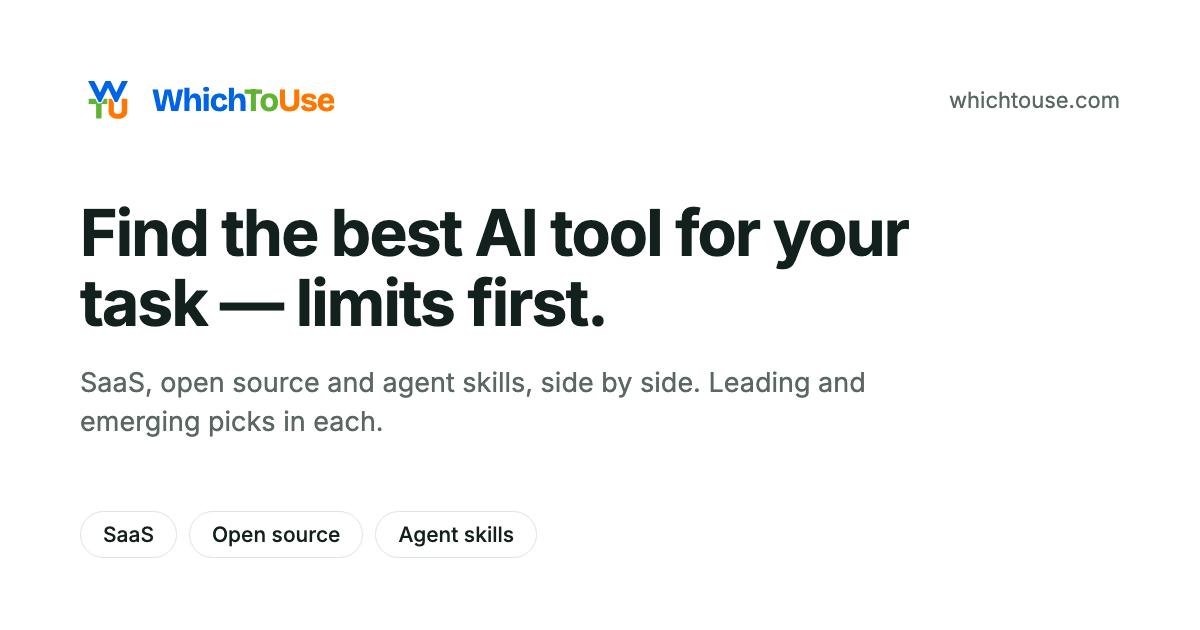
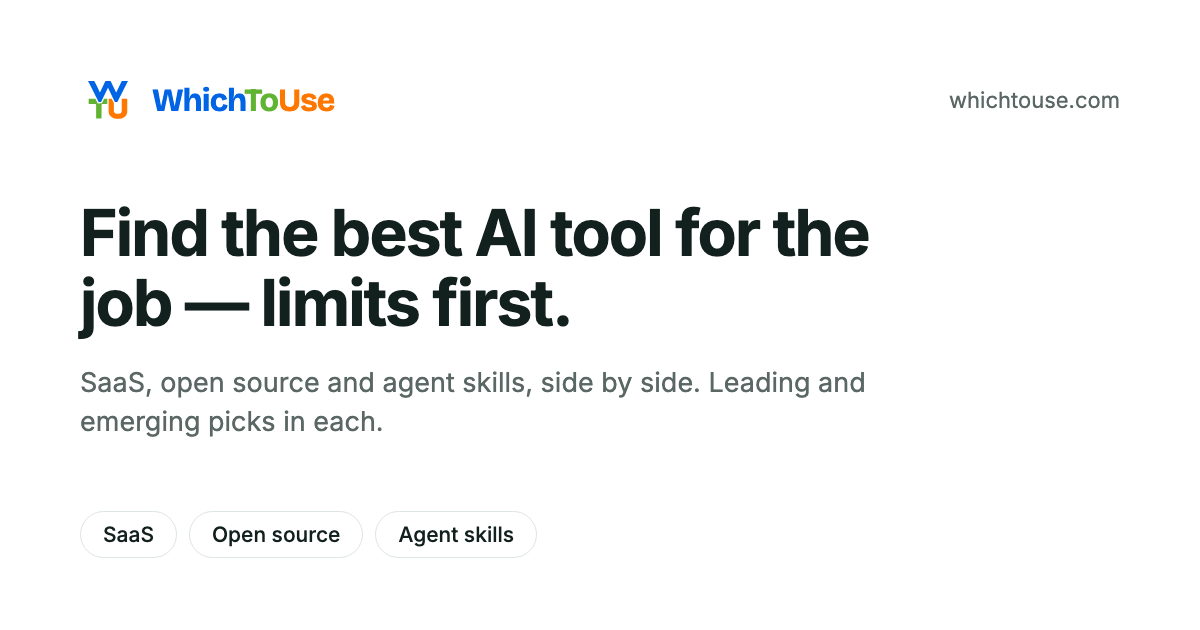
feat(copy): "the job" for the reader, "area" for the container
The container word was "task" and it did not survive being checked
against the list. Half of the 25 span several verbs — Voice & Audio is
TTS *and* music *and* listening; Bookkeeping & Finance is ledgers *and*
spend management *and* CFO services; PDF & Documents is read *and* edit
*and* convert — so any single-verb name makes the label lie about its own
list. That is the same failure this product's central rule forbids,
moved from the content into the navigation.

An earlier draft went the other way and tried to reword the labels into
tasks. Checked against what each category actually contains, seven of the
eight rewrites silently narrowed it: "Keeping the books" drops Ramp,
which is spend management, not bookkeeping. The labels are broad subject
nouns because the areas are broad. They stay.

So the word splits by whose side it is on:

  the job   what the reader is trying to get done — prose only. "The
            right tool for the job" is already an English proverb, which
            is why the headline now reads as a quotation rather than an
            invention. It is also the phrase this repo's first README
            used before the rewrite dropped it.
  area      one of the 25, wherever it has to be named.

"Task" additionally reads as a to-do item, which undersells a decision
you live with for months.

The navigation stops naming the container at all: the rail is headed
"What are you working on?", which is true without needing a taxonomy noun
[…]

Changed region(s): [[0.2158, 0.4222, 0.5242, 0.5429], [0.6475, 0.3317, 0.7708, 0.4222], [0.0617, 0.4222, 0.185, 0.5429]]

diff --git a/app/src/components/home-page.tsx b/app/src/components/home-page.tsx
@@ -22,11 +22,20 @@ import { ActionLink, itemHref, RankMarker } from './bits'
 // it has, and show what the internet is excited about today — clearly
 // separated, because the last one is aggregation and the first two are not.
 //
-// Vocabulary is fixed across every view and must not drift: the 25 are *tasks*;
-// the three are *SaaS*, *open source* and *skills*, collectively *routes*;
-// within a route the two standings are *leading* and *emerging*. Earlier drafts
-// also called these "jobs" and "forms", which read as four concepts instead of
-// two.
+// Vocabulary is fixed across every view and must not drift.
+//
+//   the job    what the reader is trying to get done. Second person, prose
+//              only — "the best AI tool for the job". Never a label.
+//   area       one of the 25. They are broad on purpose: half of them span
+//              several verbs (Voice & Audio is TTS *and* music *and*
+//              listening), so naming them after one action would make the
+//              label lie about its own list.
+//   route      SaaS, open source, skills — the three per area.
+//   standing   leading, emerging — the two within a route.
+//
+// "task" was the word here until it was checked against the list and did not
+// fit: an area covers many tasks, so the container could not be one. It also
+// carried a to-do-list connotation the product does not want.
 
 const styles = stylex.create({
   heroText: {
@@ -75,7 +84,7 @@ export function HomePage({
             * scale, not to a prop here. */}
           <VStack gap={3}>
             <Heading level={1} textWrap="balance">
-              Find the best AI tool for your task — limits first.
+              Find the best AI tool for the job — limits first.
             </Heading>
             <Text type="large" color="secondary" textWrap="pretty">
               SaaS, open source and agent skills, side by side. Leading and
@@ -83,12 +92,12 @@ export function HomePage({
             </Text>
           </VStack>
           <HStack gap={6} wrap="wrap">
-            <Stat value={String(ready.length)} label="tasks" />
-            <Stat value="3" label="routes per task" />
+            <Stat value={String(ready.length)} label="areas of work" />
+            <Stat value="3" label="routes in each" />
             <Stat value="Limits" label="checked by hand" />
           </HStack>
           <HStack gap={2} wrap="wrap">
-            <ActionLink href="/c/coding">Browse all tasks</ActionLink>
+            <ActionLink href="#areas">See all 25 areas</ActionLink>
           </HStack>
         </VStack>
         </Card>
@@ -97,12 +106,12 @@ export function HomePage({
       <Section variant="transparent" padding={0} paddingBlock={6}>
         <VStack gap={4}>
           <SectionHeading
-            title="Start with a task"
-            description="The tasks with the most depth behind them right now."
+            title="Where to start"
+            description="The areas with the most depth behind them right now."
           />
-          {/* 220, not 260: with the task rail inside the container the content
+          {/* 220, not 260: with the area rail inside the container the content
               column is ~990px at 1440, where a 260 minimum fits only three of
-              the four featured tasks and strands the fourth alone on a second
+              the four featured areas and strands the fourth alone on a second
               row. */}
           <Grid columns={{ minWidth: 220, max: 4 }} gap={4}>
             {featured.map(({ category, items }) => (
@@ -159,9 +168,9 @@ export function HomePage({
       <Section variant="transparent" padding={0} paddingBlock={6}>
         <VStack gap={4}>
           <SectionHeading
-            id="tasks"
-            title="Every task"
-            description="Twenty-five tasks people actually search for."
+            id="areas"
+            title="All 25 areas"
+            description="Pick the one your job falls under."
           />
           <HStack gap={2} wrap="wrap">
             {categories.map((category) => (

diff --git a/app/src/components/app-frame.tsx b/app/src/components/app-frame.tsx
@@ -183,7 +183,7 @@ export function AppFrame({
           }
           startContent={
             <>
-              <TopNavItem label="Tasks" href="/#tasks" isSelected={false} />
+              <TopNavItem label="Browse" href="/#areas" isSelected={false} />
               <div {...stylex.props(styles.wide)}>
                 <Button
                   variant="ghost"
@@ -200,7 +200,7 @@ export function AppFrame({
                   variant="ghost"
                   icon={<Icon icon="search" size="sm" />}
                   isIconOnly
-                  label="Search tasks and tools"
+                  label="Search areas and tools"
                   onClick={() => setSearchOpen(true)}
                 />
               </div>
@@ -210,11 +210,11 @@ export function AppFrame({
       }>
       <div {...stylex.props(styles.page)}>
         <div {...stylex.props(styles.columns)}>
-          <nav aria-label="Tasks" {...stylex.props(styles.nav)}>
+          <nav aria-label="Areas of work" {...stylex.props(styles.nav)}>
             <div {...stylex.props(styles.navHeading)}>
-              <Text type="label">Tasks</Text>
+              <Text type="label">What are you working on?</Text>
               <Text type="supporting" display="block">
-                {categories.length} tasks, three routes each
+                {categories.length} areas, three routes each
               </Text>
             </div>
             <div {...stylex.props(styles.navScroll)}>

diff --git a/app/src/lib/seo.ts b/app/src/lib/seo.ts
@@ -12,13 +12,12 @@ export const SITE_NAME = 'WhichToUse'
 export const SITE_URL = 'https://whichtouse.com'
 export const OG_IMAGE = `${SITE_URL}/og.png`
 export const DEFAULT_TITLE =
-  'WhichToUse — find the best AI tool for your task, limits first'
-// This is the search-result snippet, so it has to say the same thing the home
-// page says. It still spoke of "apps and open-source skills" — the vocabulary
-// the rest of the site dropped — and led with how we work rather than with what
-// the reader gets.
+  'WhichToUse — find the best AI tool for the job, limits first'
+// The search-result snippet, so it has to say what the home page says, in the
+// same words. See the vocabulary block at the top of components/home-page.tsx —
+// "the job" is the reader's side, "area" is one of the 25.
 export const DEFAULT_DESCRIPTION =
-  'SaaS, open source and agent skills for 25 real tasks, side by side. Leading and emerging picks in each, with what every tool is bad at written down and checked by hand.'
+  'SaaS, open source and agent skills across 25 areas of work, side by side. Leading and emerging picks in each, with what every tool is bad at written down and checked by hand.'
 
 type MetaTag = Record<string, string>
 

diff --git a/app/src/components/search-palette.tsx b/app/src/components/search-palette.tsx
@@ -25,8 +25,8 @@ function toEntry(entry: CatalogSearchEntry): Entry {
     id: href,
     label: entry.label,
     auxiliaryData: {
-      group: entry.kind === 'category' ? 'Tasks' : 'Tools',
-      context: entry.kind === 'category' ? 'Task' : entry.categoryName,
+      group: entry.kind === 'category' ? 'Areas' : 'Tools',
+      context: entry.kind === 'category' ? 'Area' : entry.categoryName,
     },
   }
 }
@@ -48,8 +48,8 @@ export function SearchPalette({
       isOpen={isOpen}
       onOpenChange={onOpenChange}
       searchSource={source}
-      label="Search tasks and tools"
-      emptyBootstrapText="Search a task, or a tool by name."
+      label="Search areas and tools"
+      emptyBootstrapText="Search an area, or a tool by name."
       emptySearchText="Nothing in the catalog matches that."
       onValueChange={(href) => {
         onOpenChange(false)

diff --git a/app/src/routes/_app/c.$slug.tsx b/app/src/routes/_app/c.$slug.tsx
@@ -16,7 +16,7 @@ export const Route = createFileRoute('/_app/c/$slug')({
     const slug = loaderData?.view.category.slug ?? ''
     return buildPageMeta({
       title: `Best ${name} AI Tools & Skills, Ranked — WhichToUse`,
-      description: `AI apps and open-source skills for ${name.toLowerCase()} that we opened, read up on, and ranked — with the reasoning, pricing and sources behind every pick.`,
+      description: `SaaS, open source and agent skills for ${name.toLowerCase()} — side by side, with the limits of each written down and the sources behind every pick.`,
       path: `/c/${slug}`,
     })
   },

diff --git a/app/src/components/category-page.tsx b/app/src/components/category-page.tsx
@@ -89,7 +89,7 @@ export function CategoryPage({ view }: { view: CategoryView }) {
                 <Text type="label" color="accent">
                   Our read
                 </Text>
-                <Heading level={2}>How this task was ranked</Heading>
+                <Heading level={2}>How we ranked these</Heading>
                 <Text type="body" textWrap="pretty">
                   {notes}
                 </Text>

diff --git a/app/src/components/product-page.tsx b/app/src/components/product-page.tsx
@@ -285,7 +285,7 @@ export function ProductPage({
               <VStack gap={3}>
                 <Divider />
                 <VStack gap={1}>
-                  <Heading level={3}>Same task, same route</Heading>
+                  <Heading level={3}>More in this area</Heading>
                   <Text type="supporting">
                     The rest of the {TRACK_LABEL[track]} column.
                   </Text>

diff --git a/README.md b/README.md
@@ -1,11 +1,11 @@
 # WhichToUse
 
-Find the best AI tool for your task — limits first.
+Find the best AI tool for the job — limits first.
 
-Live at **[whichtouse.com](https://whichtouse.com)**. 25 tasks; each shows three
-routes side by side — SaaS, an open-source repo you run, and an agent skill you
-drop into a coding agent — because those are three different decisions, not
-three flavours of one.
+Live at **[whichtouse.com](https://whichtouse.com)**. 25 areas of work; each
+shows three routes side by side — SaaS, an open-source repo you run, and an
+agent skill you drop into a coding agent — because those are three different
+decisions, not three flavours of one.
 
 Each route carries two standings: **Leading** (established picks, top of today's
 aggregate) and **Emerging** (newer challengers, surfaced by two or more
@@ -30,7 +30,7 @@ each means one thing:
 |---|---|
 | indigo | **a judgement we made** — one callout per page, always labelled *Our read* |
 | coral | **limits**, and nothing else |
-| grey | **demoted** — Signals, evidence, Quick facts, the task rail, Emerging |
+| grey | **demoted** — Signals, evidence, Quick facts, the area rail, Emerging |
 
 Strengths are marked in plain ink, never green. Green as "good" collides with
 green as a brand colour, and green/red is the one pair colour-blind readers
@@ -41,6 +41,32 @@ The per-entry review state is tracked in the database (`reviewed_at`) and
 governs what the refresh job may overwrite, but it is **not surfaced in the
 UI**. An earlier build labelled every row *Reviewed* / *Not yet reviewed*; that
 was removed deliberately. Do not reintroduce it without asking.
+
+## Vocabulary
+
+Fixed, and it has already drifted twice. The block at the top of
+`app/src/components/home-page.tsx` is the canonical copy.
+
+| word | means | where it may appear |
+|---|---|---|
+| **the job** | what the reader is trying to get done | prose only — "the best AI tool for the job". Never a label |
+| **area** | one of the 25 | anywhere it must be named |
+| **route** | SaaS, open source, skills | the three per area |
+| **standing** | leading, emerging | the two within a route |
+
+"task" was the word for the container until it was checked against the list.
+Half of the 25 span several verbs — Voice & Audio is TTS *and* music *and*
+listening; Bookkeeping & Finance is ledgers *and* spend management *and* CFO
+services — so naming them after one action makes the label lie about its own
+list. That is the same failure the rule above forbids, in the navigation instead
+of the content. "Task" also reads as a to-do item, which undersells a decision
+you live with for months.
+
+The labels themselves are broad subject nouns on purpose. Do not verb them.
+
+**The database still says `category`** — the table, the type, the `/c/:slug`
+route. That is schema vocabulary and changing it buys nothing a reader can see.
+The split is deliberate; do not "fix" it.
 
 `.agents/skills/wt-enrich` is the written form of this rule, and is worth
 reading before touching any copy the app generates.
@@ -205,7 +231,7 @@ to do the job the plugin would have. Production is unaffected.
 
 **Router scroll restoration is off on purpose.** It manages window scroll, and
 it also wrote a stale offset onto the layout's scroll container after every
-navigation — opening a listing from halfway down a task page landed halfway down
+navigation — opening a listing from halfway down an area page landed halfway down
 the listing. `AppFrame` resets scroll on each navigation instead. Consequence:
 back also returns to the top.
 
